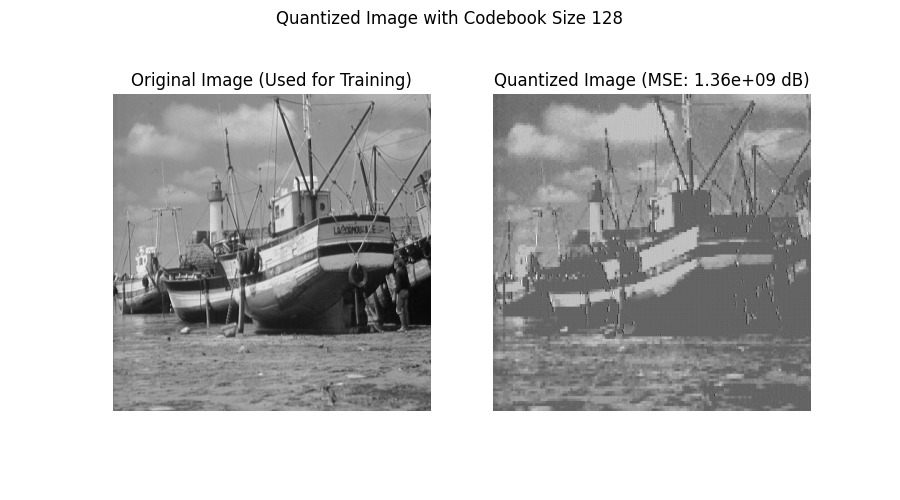
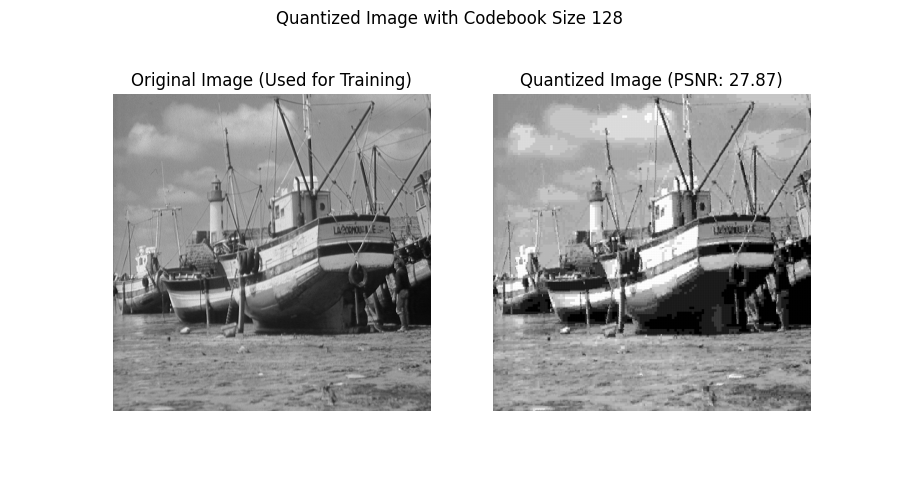
Fixed bug and completed report

Changed region(s): [[0.5289, 0.15, 0.9022, 0.84]]

diff --git a/part1.py b/part1.py
@@ -7,6 +7,7 @@ from common import *
 import cv2
 import matplotlib.pyplot as plt
 import numpy as np
+from tqdm import tqdm
 
 import random
 
@@ -26,33 +27,35 @@ def distance_squared(point1, point2):
     dist = (point2 - point1) ** 2
     return np.sum(dist)
 
-def assign_points_to_centroids_multithreaded(points, centroids, num_threads = 8):
+def assign_points_to_centroids_multithreaded(points, centroids, num_threads = 16):
     ''' Returns list of points of len(points) where each element is the index of the centroid that the point is closest to
         Points: List of np arrays
         Centroids: List of np arrays
     '''
-    print("Assigning points to centroids")
-
-    def assign_point_to_centroid(point_idxes, points, centroids, rtn_list):
+    def assign_point_rng_to_centroid(point_idxes, points, centroids, rtn_list):
         rtn_list.append(list())
         rtn_list.append(list())
-        closest = -1
+        
         for point_idx in point_idxes:
-            for j in range(len(centroids)):
-                if closest == -1 or distance_squared(points[point_idx], centroids[j]) < distance_squared(points[point_idx], centroids[closest]):
-                    closest = j
+            closest_idx = -1
+            closest_dist = -1
+            for curr_centroid in range(len(centroids)):
+                dist = distance_squared(points[point_idx], centroids[curr_centroid])
+                if closest_idx == -1 or dist < closest_dist:
+                    closest_idx = curr_centroid
+                    closest_dist = dist
 
             rtn_list[0].append(point_idx)
-            rtn_list[1].append(closest)
+            rtn_list[1].append(closest_idx)
 
     threads = list()
-    delta = int(len(points) / num_threads)
-    for i in range(len(points)):
+    delta = int(len(points) / num_threads) + 1
+    for i in range(num_threads):
         rtn_list = list()
         start_idx = i * delta
-        end_idx = min((i + 1) * delta, len(points))
+        end_idx = min( (i + 1) * delta, len(points) )
         rng = range(start_idx, end_idx)
-        t = threading.Thread(target=assign_point_to_centroid, args=(rng, points, centroids, rtn_list))
+        t = threading.Thread(target=assign_point_rng_to_centroid, args=(rng, points, centroids, rtn_list))
         threads.append((t, rtn_list))
 
     #for t, _ in threads:
@@ -68,15 +71,15 @@ def assign_points_to_centroids_multithreaded(points, centroids, num_threads = 8)
         [closest_centroid_idxes.append(closest_centroid_idx) for closest_centroid_idx in tmp_closest_centroid_idx]
 
 
-    # selection sort point_idx
-    for i in range(len(point_idxes)-1):
-        min_idx = i
-        for j in range(i+1, len(point_idxes)):
-            if point_idxes[j] < point_idxes[min_idx]:
-                min_idx = j
+    # # selection sort point_idx
+    # for i in range(len(point_idxes)-1):
+    #     min_idx = i
+    #     for j in range(i+1, len(point_idxes)):
+    #         if point_idxes[j] < point_idxes[min_idx]:
+    #             min_idx = j
 
-        point_idxes[i], point_idxes[min_idx] = point_idxes[min_idx], point_idxes[i]
-        closest_centroid_idxes[i], closest_centroid_idxes[min_idx] = closest_centroid_idxes[min_idx], closest_centroid_idxes[i]
+    #     point_idxes[i], point_idxes[min_idx] = point_idxes[min_idx], point_idxes[i]
+    #     closest_centroid_idxes[i], closest_centroid_idxes[min_idx] = closest_centroid_idxes[min_idx], closest_centroid_idxes[i]
 
 
     for i in range(len(point_idxes)-1):
@@ -92,29 +95,37 @@ def assign_points_to_centroids(points, centroids):
         Points: List of np arrays
         Centroids: List of np arrays
     '''
-    print("Assigning points to centroids")
     closest_centroid_idx = list()
     for i in range(len(points)):
         closest = -1
+        closest_dist = -1
         for j in range(len(centroids)):
-            if closest == -1 or distance_squared(points[i], centroids[j]) < distance_squared(points[i], centroids[closest]):
+            dist = distance_squared(points[i], centroids[j])
+            if closest == -1 or dist < closest_dist:
                 closest = j
+                closest_dist = dist
         
         closest_centroid_idx.append(closest)
 
     return closest_centroid_idx
 
-def get_new_centroids(points, closest_centroid_idx, codebook_size):
-    print("Getting new centroids")
+def get_new_centroids(points, closest_centroid_idx, num_centroids):
     new_centroids = list()
-    for i in range(codebook_size):
+    for i in range(num_centroids):
         curr_sum = np.zeros(points[0].shape)
         count = 0
+
+        curr_group = list()
+
         for j in range(len(points)):
             if closest_centroid_idx[j] == i:
-                curr_sum += points[i]
+                curr_sum += points[j].astype(np.float32)
                 count += 1
+
+                curr_group.append(points[j])
+
         new_centroids.append(curr_sum / count)
+
 
     return new_centroids
 
@@ -151,19 +162,25 @@ def get_codebook(codebook_size, training_img_fpaths):
         starting_centroids.append(training_data[idx])
 
     old_centroids = starting_centroids
-    old_closest_centroid_idx = assign_points_to_centroids(training_data, old_centroids)
-    new_centroids = get_new_centroids(training_data, old_closest_centroid_idx, codebook_size)
-    new_closest_centroid_idx = assign_points_to_centroids(training_data, new_centroids)
+    old_centroid_assignments = assign_points_to_centroids_multithreaded(training_data, old_centroids)
+    new_centroids = None
 
-    while True:
-        if (closest_centroid_idxes_same(old_closest_centroid_idx, new_closest_centroid_idx)):
-            print("Converged!")
+    break_next = False
+    for _ in tqdm(range(20)):
+        new_centroids = get_new_centroids(training_data, old_centroid_assignments, codebook_size)
+        new_centroid_assignments = assign_points_to_centroids_multithreaded(training_data, new_centroids)
+        
+        if break_next:
+            if not (closest_centroid_idxes_same(old_centroid_assignments, new_centroid_assignments)):
+                print("Warning: Thought we converged but didn't")
             break
+        
+        if (closest_centroid_idxes_same(old_centroid_assignments, new_centroid_assignments)):
+            print("Converged!")
+            break_next = True
+        
         old_centroids = new_centroids
-        old_closest_centroid_idx = new_closest_centroid_idx
-
-        new_centroids = get_new_centroids(training_data, old_closest_centroid_idx, codebook_size)
-        new_closest_centroid_idx = assign_points_to_centroids(training_data, new_centroids)
+        old_centroid_assignments = new_centroid_assignments
     
     return new_centroids
 
@@ -197,7 +214,7 @@ def quantize_img(img_fpath, codebook):
     # plt.imshow(img, cmap='gray')
     # plt.show()
 
-    return img, mse_2d(img, original_img)
+    return img, get_psnr(img, original_img, max=255)
 
 def main():
     parser = argparse.ArgumentParser(
@@ -210,7 +227,7 @@ def main():
     args = parser.parse_args()
 
     codebook = get_codebook(args.codebook_size, args.training_imgs)
-    img, mse = quantize_img(args.quantize_img[0], codebook)
+    img, psnr = quantize_img(args.quantize_img[0], codebook)
 
     if args.part == 'a':
         fig, axarr = plt.subplots(1, 2, figsize=(9, 5))
@@ -222,7 +239,7 @@ def main():
         ax.title.set_text("Original Image (Used for Training)")
         ax.imshow(cv2.imread(args.training_imgs[0], 0), cmap='gray')
         ax = axarr[1]
-        ax.title.set_text("Quantized Image (MSE: %.2e dB)" % mse)
+        ax.title.set_text("Quantized Image (PSNR: %.2f)" % psnr)
         ax.imshow(img, cmap='gray')
 
         plt.savefig('figures/part1a-%d-%s.png' % (args.codebook_size, os.path.basename(args.quantize_img[0])))
@@ -237,7 +254,7 @@ def main():
         ax.title.set_text("Original Image")
         ax.imshow(cv2.imread(args.quantize_img[0], 0), cmap='gray')
         ax = axarr[1]
-        ax.title.set_text("Quantized Image (MSE: %.2e dB)" % mse)
+        ax.title.set_text("Quantized Image (PSNR: %.2f)" % psnr)
         ax.imshow(img, cmap='gray')
 
         plt.savefig('figures/part1b-%d-%s.png' % (args.codebook_size, os.path.basename(args.quantize_img[0])))

diff --git a/part1MethodDemo.py b/part1MethodDemo.py
@@ -1,0 +1,97 @@
+import argparse
+import os
+
+from part1 import closest_centroid_idxes_same, get_new_centroids, assign_points_to_centroids, assign_points_to_centroids_multithreaded
+
+import numpy as np
+import matplotlib.pyplot as plt
+
+color_idx = {
+    0: 'red',
+    1: 'blue',
+    2: 'green',
+    3: 'orange',
+    4: 'cyan',
+    5: 'magenta'
+}
+
+def writeStepToFile(centroids, centroid_assignments, data, num_centroids, dirname, img_idx):
+    fig, ax = plt.subplots()
+    for i in range(num_centroids):
+        xs = list()
+        ys = list()
+        for j in range(len(centroid_assignments)):
+            if (centroid_assignments[j] == i):
+                xs.append(data[j][0])
+                ys.append(data[j][1])
+        ax.scatter(xs, ys, color=color_idx[i], marker='.')
+        ax.plot(centroids[i][0], centroids[i][1], color=color_idx[i], marker='x', markersize=20)
+    fname = os.path.join(dirname, "iter:%d.png" % img_idx)
+    fig.savefig(fname)
+
+def main():
+    parser = argparse.ArgumentParser(
+                    prog = 'ECE634 Project 2, Part 1')
+    parser.add_argument('num_centroids', help="Number of centroids", type=int)
+    parser.add_argument('data_per_centroid', help="Number of data points for each centroid", type=int)
+    parser.add_argument('-s', "--seed", help="Random seed", default=1, required=False, type=int)
+    args = parser.parse_args()
+
+    num_centroids = args.num_centroids
+    data_per_centroid = args.data_per_centroid
+    np.random.seed(args.seed)
+
+    all_data = list()
+    for i in range(num_centroids):
+        mean = np.random.randint(0, 100, size=2)
+        cov = np.random.randint(1, 10, size=(2, 2))
+        cov[0, 1] = cov[1, 0]
+        # print(mean)
+        # print(cov)
+        for n in range(data_per_centroid):
+            point = np.random.multivariate_normal(mean, cov)
+            all_data.append(point)
+
+    
+    dirname = "figures/method-%d-%d-%d/" % (num_centroids, data_per_centroid, args.seed) 
+    try:
+        os.mkdir(dirname)
+    except FileExistsError:
+        print("Directory already exists, press enter to continue")
+        input()
+
+    plt.scatter([x[0] for x in all_data], [x[1] for x in all_data])
+    plt.savefig(os.path.join(dirname, 'original.png'))
+
+    old_centroids = [all_data[i] for i in np.random.randint(0, len(all_data), size=num_centroids)]
+    old_centroid_assignments = assign_points_to_centroids_multithreaded(all_data, old_centroids)
+
+    writeStepToFile(old_centroids, old_centroid_assignments, all_data, num_centroids, dirname, 0)
+
+    img_idx = 1
+    break_next = False
+    for _ in range(10):
+        new_centroids = get_new_centroids(all_data, old_centroid_assignments, num_centroids)
+        writeStepToFile(new_centroids, old_centroid_assignments, all_data, num_centroids, dirname, img_idx)
+        img_idx += 1
+
+        new_centroid_assignments = assign_points_to_centroids_multithreaded(all_data, new_centroids)
+        writeStepToFile(new_centroids, new_centroid_assignments, all_data, num_centroids, dirname, img_idx)
+        img_idx += 1
+
+        if break_next:
+            if not (closest_centroid_idxes_same(new_centroid_assignments, old_centroid_assignments)):
+                print("Warning: Thought we converged but didn't")
+            break
+
+        if closest_centroid_idxes_same(new_centroid_assignments, old_centroid_assignments):
+            print("Converged!")
+            break_next = True
+
+        old_centroids = new_centroids
+        old_centroid_assignments = new_centroid_assignments
+
+        
+
+if __name__ == "__main__":
+    main()

diff --git a/part2.py b/part2.py
@@ -34,10 +34,11 @@ def get_basis_vectors():
             basis_vectors.append(ys.flatten())
 
     # plt.imshow(img, cmap='gray')
-    # plt.xticks(np.arange(-0.5, 63.5, 8))
-    # plt.yticks(np.arange(-0.5, 63.5, 8))
+    # plt.xticks(np.arange(-0.5, 63.5, 8), ['' for i in range(8)])
+    # plt.yticks(np.arange(-0.5, 63.5, 8), ['' for i in range(8)])
     # plt.grid()
     # plt.show()
+    # plt.savefig('figures/dct_basis_vectors.png')
 
     basis_vectors = np.array(basis_vectors)
 
@@ -199,7 +200,7 @@ def part_b(img_path):
     coefs_used = list()
     for i in tqdm(range(63, 0, -1)):
         predicted_img = reconstruct_img_with_top_n_coefs(weights, i, original_img.shape)
-        mse = mse_2d(original_img, predicted_img)
+        mse = get_psnr(original_img, predicted_img)
         mses.append(mse)
         coefs_used.append(i)
 
@@ -214,12 +215,12 @@ def part_b(img_path):
 
     ax = axarr[1]
     ax.plot(coefs_used, mses)
-    ax.title.set_text('MSE vs Number of Coefficients Used')
+    ax.title.set_text('PSNR vs Number of Coefficients Used')
     ax.set_xlabel('Number of DCT Coefficients Used')
-    ax.set_ylabel('MSE')
+    ax.set_ylabel('PSNR (dB)')
     ax.axis('on')
 
-    plt.show()
+    plt.savefig('figures/part2b-%s.png' % os.path.basename(img_path))
     
 
 def main():

diff --git a/common.py b/common.py
@@ -1,3 +1,4 @@
+from math import log10
 
 def mse_3d(img1, img2):
     if (img1.shape != img2.shape):
@@ -25,7 +26,7 @@ def mse_2d(img1, img2):
     tot_diff = 0
     for x in range(img1.shape[0]):
             for y in range(img1.shape[1]):
-                tot_diff += (255*float(img1[x, y]) - float(img2[x, y]))**2
+                tot_diff += (float(img1[x, y]) - float(img2[x, y]))**2
 
     try:
         tot_diff = tot_diff / (img1.shape[0] * img1.shape[1])
@@ -34,3 +35,12 @@ def mse_2d(img1, img2):
         print(img2.shape)
         raise e
     return tot_diff
+
+def get_psnr(img1, img2, max=255):
+    if max != 255 and max != 1:
+        raise ValueError('Max must be 255 or 1')
+
+    mse_calc = mse_2d(img1, img2)
+    if mse_calc == 0:
+        return float('inf')
+    return 10 * log10((float(max) ** 2) / mse_calc)
